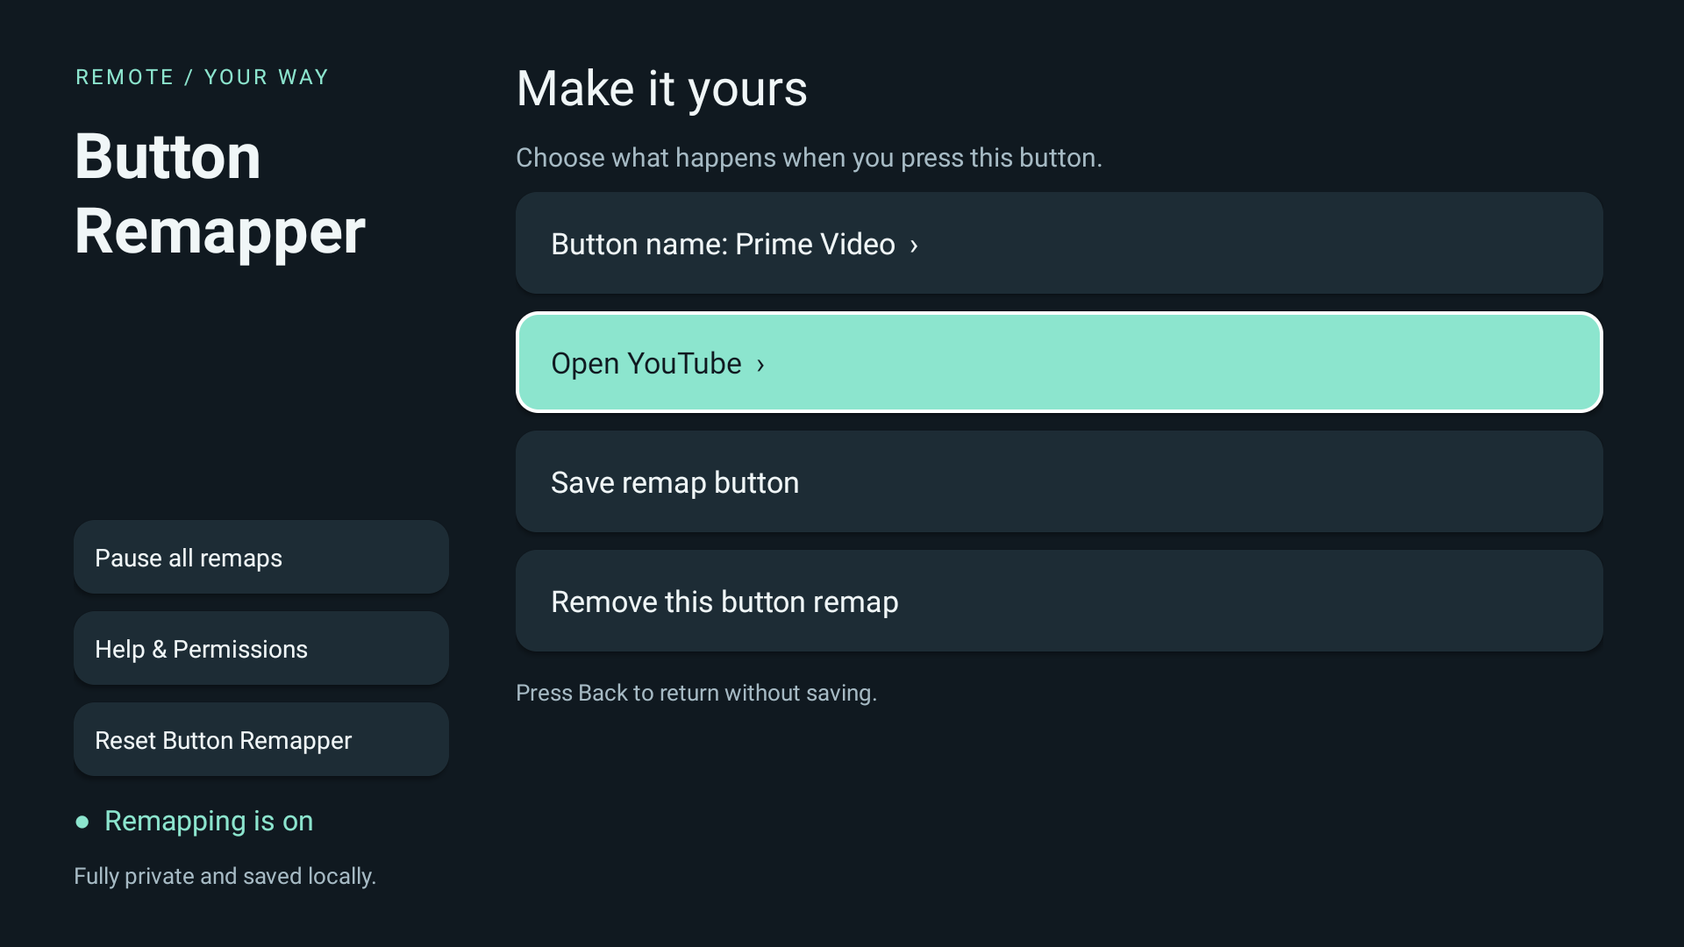
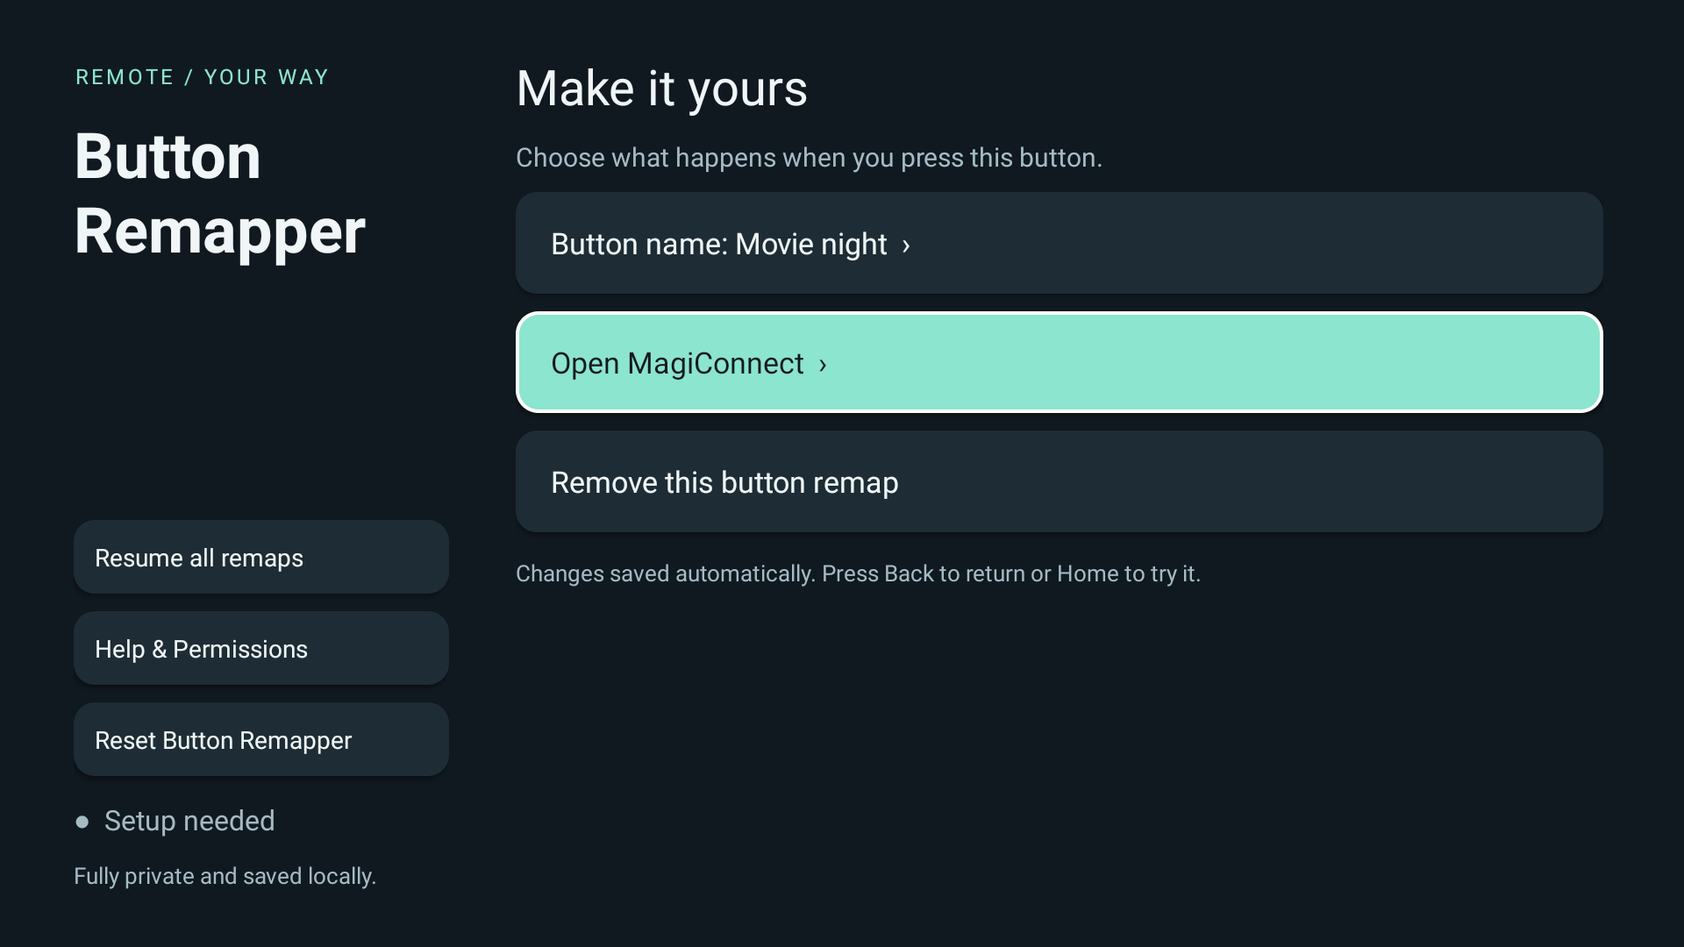
Save button remap changes automatically

diff --git a/tests/device/AutosaveTests.java b/tests/device/AutosaveTests.java
@@ -1,0 +1,189 @@
+package dev.antonio.tvremap;
+
+import android.app.AlertDialog;
+import android.app.Instrumentation;
+import android.content.Intent;
+import android.content.pm.ResolveInfo;
+import android.graphics.Bitmap;
+import android.os.Bundle;
+import android.os.SystemClock;
+import android.view.KeyEvent;
+import android.view.accessibility.AccessibilityNodeInfo;
+import java.io.File;
+import java.io.FileOutputStream;
+import java.lang.reflect.Field;
+import java.lang.reflect.Method;
+
+/** Actual framework UI clicks with isolated preferences; no external test library. */
+final class AutosaveTests {
+    private final Instrumentation test;
+    private int checks;
+    private MainActivity activity;
+    private MappingStore store;
+
+    AutosaveTests(Instrumentation test) { this.test = test; }
+
+    int run() throws Exception {
+        store = new MappingStore(test.getTargetContext(), "test-autosave");
+        check(store.reset() && store.consent() && store.setEnabled(false), "prepare isolated fixture");
+        activity = (MainActivity) test.startActivitySync(new Intent(test.getTargetContext(), MainActivity.class)
+                .addFlags(Intent.FLAG_ACTIVITY_NEW_TASK | Intent.FLAG_ACTIVITY_CLEAR_TASK));
+        test.runOnMainSync(() -> {
+            try {
+                Field dialog = MainActivity.class.getDeclaredField("disclosureDialog");
+                dialog.setAccessible(true);
+                AlertDialog initial = (AlertDialog) dialog.get(activity);
+                if (initial != null) initial.dismiss();
+                Field field = MainActivity.class.getDeclaredField("store");
+                field.setAccessible(true);
+                field.set(activity, store);
+            } catch (ReflectiveOperationException error) { throw new AssertionError(error); }
+        });
+        try {
+            editor(new Mapping(183, 123, "Test button", "", ""));
+            await("Choose an action  ›");
+            check(node("Save remap button") == null, "no manual save control");
+            check(saved() == null, "unconfigured button not persisted");
+            click("Choose an action  ›");
+            click("Open an app");
+            await("Open which app?");
+            back();
+            await("Choose an action  ›");
+            check(saved() == null, "cancel app picker does not save incomplete action");
+            click("Choose an action  ›");
+            click("Do nothing");
+            await("Do nothing  ›");
+            check(saved() != null && saved().action.equals("none"), "action saved immediately");
+            check(node("Remove this button remap") != null, "saved button can be removed immediately");
+            check(!store.enabled(), "action keeps pause state");
+
+            click("Button name: Test button  ›");
+            AccessibilityNodeInfo input = editable(test.getUiAutomation().getRootInActiveWindow());
+            check(input != null, "rename input available");
+            Bundle args = new Bundle();
+            args.putCharSequence(AccessibilityNodeInfo.ACTION_ARGUMENT_SET_TEXT_CHARSEQUENCE, "Movie night");
+            check(input.performAction(AccessibilityNodeInfo.ACTION_SET_TEXT, args), "enter new name");
+            click("Done");
+            await("Button name: Movie night  ›");
+            check(saved().name.equals("Movie night"), "confirmed name saved immediately");
+
+            click("Do nothing  ›");
+            click("Open an app");
+            await("Open which app?");
+            back();
+            await("Do nothing  ›");
+            check(saved().action.equals("none"), "cancel changed app picker preserves existing action");
+            click("Do nothing  ›");
+            await("What should this button do?");
+            back();
+            await("Do nothing  ›");
+            check(saved().action.equals("none"), "cancel action picker preserves existing action");
+
+            click("Do nothing  ›");
+            click("Open an app");
+            await("Open which app?");
+            // Choose a launchable app actually present in the visible list on this TV.
+            String target = null;
+            for (ResolveInfo info : activity.getPackageManager().queryIntentActivities(
+                    new Intent(Intent.ACTION_MAIN).addCategory(Intent.CATEGORY_LEANBACK_LAUNCHER), 0)) {
+                String label = info.loadLabel(activity.getPackageManager()).toString();
+                if (!info.activityInfo.packageName.equals(activity.getPackageName()) && node(label) != null) {
+                    target = info.activityInfo.packageName;
+                    click(label);
+                    break;
+                }
+            }
+            check(target != null, "select an installed app from picker");
+            await("Button name: Movie night  ›");
+            check(saved().action.equals("app") && saved().target.startsWith(target + "|"), "app target saved immediately");
+            check(saved().name.equals("Movie night"), "changing action keeps name");
+            check(node("Save remap button") == null, "no save button after configuration");
+            screenshot("autosave-editor.png");
+            click("Help & Permissions");
+            await("Privacy policy");
+            screenshot("autosave-help.png");
+            back();
+            await("Button name: Movie night  ›");
+            back();
+            await("Your button remaps");
+            check(saved().name.equals("Movie night") && saved().action.equals("app"), "Back keeps saved changes");
+
+            // A name alone is still a draft, and leaving it creates no broken remap.
+            editor(new Mapping(184, 0, "Unfinished button", "", ""));
+            await("Choose an action  ›");
+            back();
+            await("Your button remaps");
+            check(store.find(184, 0) == null && store.all().size() == 1, "cancel unfinished button preserves saved remaps");
+            return checks;
+        } finally {
+            test.runOnMainSync(activity::finish);
+        }
+    }
+
+    private Mapping saved() { return store.find(183, 123); }
+
+    private void editor(Mapping mapping) {
+        test.runOnMainSync(() -> {
+            try {
+                Method method = MainActivity.class.getDeclaredMethod("showEditor", Mapping.class);
+                method.setAccessible(true);
+                method.invoke(activity, mapping);
+            } catch (ReflectiveOperationException error) { throw new AssertionError(error); }
+        });
+        test.waitForIdleSync();
+    }
+
+    private AccessibilityNodeInfo node(String label) {
+        AccessibilityNodeInfo root = test.getUiAutomation().getRootInActiveWindow();
+        if (root == null) return null;
+        for (AccessibilityNodeInfo found : root.findAccessibilityNodeInfosByText(label)) {
+            if (label.equalsIgnoreCase(found.getText() == null ? "" : found.getText().toString())
+                    && found.isVisibleToUser()) return found;
+        }
+        return null;
+    }
+
+    private AccessibilityNodeInfo await(String label) {
+        for (int attempt = 0; attempt < 50; attempt++) {
+            AccessibilityNodeInfo found = node(label);
+            if (found != null) return found;
+            SystemClock.sleep(100);
+        }
+        throw new AssertionError("UI not found: " + label);
+    }
+
+    private void click(String label) {
+        AccessibilityNodeInfo found = await(label);
+        while (found != null && !found.isClickable()) found = found.getParent();
+        check(found != null && found.performAction(AccessibilityNodeInfo.ACTION_CLICK), "click " + label);
+        test.waitForIdleSync();
+    }
+
+    private AccessibilityNodeInfo editable(AccessibilityNodeInfo root) {
+        if (root == null || root.isEditable()) return root;
+        for (int i = 0; i < root.getChildCount(); i++) {
+            AccessibilityNodeInfo found = editable(root.getChild(i));
+            if (found != null) return found;
+        }
+        return null;
+    }
+
+    private void back() {
+        test.sendKeyDownUpSync(KeyEvent.KEYCODE_BACK);
+        test.waitForIdleSync();
+    }
+
+    private void screenshot(String name) throws Exception {
+        test.getUiAutomation().waitForIdle(300, 5000);
+        Bitmap bitmap = test.getUiAutomation().takeScreenshot();
+        check(bitmap != null, "capture " + name);
+        try (FileOutputStream output = new FileOutputStream(new File(test.getTargetContext().getExternalFilesDir(null), name))) {
+            check(bitmap.compress(Bitmap.CompressFormat.PNG, 100, output), "save " + name);
+        }
+    }
+
+    private void check(boolean value, String message) {
+        checks++;
+        if (!value) throw new AssertionError(message);
+    }
+}

diff --git a/app/src/dev/antonio/tvremap/MainActivity.java b/app/src/dev/antonio/tvremap/MainActivity.java
@@ -176,7 +176,7 @@ public final class MainActivity extends Activity {
         if (!store.all().isEmpty()) {
             pauseButton = sideButton("side:pause", "", () -> {
                 if (!store.setEnabled(!store.enabled())) Actions.message(this, "Could not save. Try again.");
-                // Update in place: retain focus, scroll position, and any unsaved edit.
+                // Update in place: retain focus, scroll position, and the current editor.
                 updateStatus();
             });
             rail.addView(pauseButton);
@@ -310,20 +310,29 @@ public final class MainActivity extends Activity {
         Button name = button("Button name: " + mapping.name + "  ›", () -> rename(mapping)); content.addView(name);
         Button choose = button(mapping.action.isEmpty() ? "Choose an action  ›" : Actions.label(mapping) + "  ›", () -> chooseAction(mapping));
         content.addView(choose); choose.requestFocus();
-        if (Actions.supported(mapping.action)) {
-            content.addView(button("Save remap button", () -> {
-                if (store.save(mapping)) { showHome(); Actions.message(this, "Remap saved. Press Home to try it."); }
-                else Actions.message(this, "Could not save. Try again.");
-            }));
-        }
         if (store.find(mapping.keyCode, mapping.scanCode) != null) content.addView(button("Remove this button remap", () -> new AlertDialog.Builder(this)
             .setTitle("Remove " + mapping.name + "?").setMessage("This button will return to its original behavior.")
             .setPositiveButton("Remove", (d, w) -> {
                 if (store.remove(mapping)) showHome(); else Actions.message(this, "Could not remove. Try again.");
             }).show()));
-        content.addView(text("Press Back to return without saving.", 13, MUTED));
+        content.addView(text(Actions.supported(mapping.action)
+                ? "Changes saved automatically. Press Back to return or Home to try it."
+                : "Choose an action to save this remap. Press Back to cancel.", 13, MUTED));
         restoreSidebarFocus(previousFocus);
         updateBackNavigation();
+    }
+
+    private void applyChange(Mapping mapping) {
+        // A new button has no remap until an action (and, for app launches, a
+        // target) has been chosen. Renaming an unfinished button stays a draft.
+        if (Actions.supported(mapping.action) && !store.save(mapping)) {
+            new AlertDialog.Builder(this).setTitle("Could not save change")
+                .setMessage("This change could not be saved. Try saving it again before leaving?")
+                .setNegativeButton("Cancel", null)
+                .setPositiveButton("Retry", (d, w) -> applyChange(mapping)).show();
+            return;
+        }
+        showEditor(mapping);
     }
 
     private void rename(Mapping mapping) {
@@ -331,7 +340,7 @@ public final class MainActivity extends Activity {
         new AlertDialog.Builder(this).setTitle("Button name").setView(input)
             .setPositiveButton("Done", (d, w) -> {
                 String name = input.getText().toString().trim();
-                showEditor(new Mapping(mapping.keyCode, mapping.scanCode, name.isEmpty() ? mapping.name : name, mapping.action, mapping.target));
+                applyChange(new Mapping(mapping.keyCode, mapping.scanCode, name.isEmpty() ? mapping.name : name, mapping.action, mapping.target));
             }).show();
     }
 
@@ -347,7 +356,7 @@ public final class MainActivity extends Activity {
             .setItems(labels.toArray(new String[0]), (d, which) -> {
                 String action = ids.get(which);
                 if (action.equals("app")) chooseApp(mapping);
-                else showEditor(new Mapping(mapping.keyCode, mapping.scanCode, mapping.name, action, ""));
+                else applyChange(new Mapping(mapping.keyCode, mapping.scanCode, mapping.name, action, ""));
             }).show();
     }
 
@@ -367,13 +376,13 @@ public final class MainActivity extends Activity {
         if (labels.length == 0) { Actions.message(this, "No launchable apps found on this TV."); return; }
         new AlertDialog.Builder(this).setTitle("Open which app?").setItems(labels, (d, which) -> {
             String pkg = packages.get(which);
-            showEditor(new Mapping(mapping.keyCode, mapping.scanCode, mapping.name, "app", pkg + "|" + apps.get(pkg)));
+            applyChange(new Mapping(mapping.keyCode, mapping.scanCode, mapping.name, "app", pkg + "|" + apps.get(pkg)));
         }).show();
     }
 
     private void help() {
         new AlertDialog.Builder(this).setTitle("Help & Permissions")
-            .setMessage("Remote button permission lets Button Remapper detect button presses while you use other apps. It does not allow anyone to connect to your TV or read your screen.\n\nSome TVs reserve certain buttons. If a button cannot be detected, try another one or turn off other button-remapping apps.\n\nPress Back to close this screen or leave an edit without saving.")
+            .setMessage("Remote button permission lets Button Remapper detect button presses while you use other apps. It does not allow anyone to connect to your TV or read your screen.\n\nSome TVs reserve certain buttons. If a button cannot be detected, try another one or turn off other button-remapping apps.\n\nAction and app choices are saved automatically. Name changes are saved when you select Done. Press Back to close a dialog or return; canceling a choice keeps your previous remap.")
             .setNeutralButton("Privacy policy", (d, w) -> privacy())
             .setPositiveButton("Remote button permission", (d, w) -> disclosure()).show();
     }

diff --git a/tests/device/DeviceTests.java b/tests/device/DeviceTests.java
@@ -19,7 +19,26 @@ public final class DeviceTests extends Instrumentation {
         Bundle result = new Bundle();
         try {
             MappingStore store = new MappingStore(getTargetContext(), "test-remaps");
-            if (phase.equals("disclosure")) {
+            if (phase.equals("screenshots")) {
+                StringBuilder images = new StringBuilder();
+                for (String name : new String[]{"autosave-editor.png", "autosave-help.png"}) {
+                    java.io.File file = new java.io.File(getTargetContext().getExternalFilesDir(null), name);
+                    images.append(name).append(':').append(android.util.Base64.encodeToString(
+                            java.nio.file.Files.readAllBytes(file.toPath()), android.util.Base64.NO_WRAP)).append('\n');
+                }
+                result.putString("stream", images.toString());
+                finish(-1, result);
+                return;
+            } else if (phase.equals("autosave")) {
+                checks += new AutosaveTests(this).run();
+            } else if (phase.equals("autosave-verify")) {
+                MappingStore saved = new MappingStore(getTargetContext(), "test-autosave");
+                Mapping mapping = saved.find(183, 123);
+                check(mapping != null && mapping.name.equals("Movie night") && mapping.action.equals("app")
+                        && !mapping.target.isEmpty(), "automatic changes survive process restart");
+                check(!saved.enabled(), "autosave preserves pause state");
+                check(saved.reset(), "clean autosave fixture");
+            } else if (phase.equals("disclosure")) {
                 testDisclosure();
             } else if (phase.equals("names")) {
                 check(ButtonNames.forKey(KeyEvent.KEYCODE_MEDIA_PLAY).equals("Play"), "standard button label");

diff --git a/docs/development.md b/docs/development.md
@@ -35,6 +35,10 @@ adb shell am instrument -w -e phase names \
   dev.antonio.tvremap.tests/dev.antonio.tvremap.DeviceTests
 adb shell am instrument -w -e phase disclosure \
   dev.antonio.tvremap.tests/dev.antonio.tvremap.DeviceTests
+adb shell am instrument -w -e phase autosave \
+  dev.antonio.tvremap.tests/dev.antonio.tvremap.DeviceTests
+adb shell am instrument -w -e phase autosave-verify \
+  dev.antonio.tvremap.tests/dev.antonio.tvremap.DeviceTests
 adb uninstall dev.antonio.tvremap.tests
 ```
 
@@ -46,10 +50,14 @@ Manual acceptance on each TV:
 - Hold the button: the selected app should open once.
 - Close/reopen the app and restart the TV; check remaps without opening Button Remapper first.
 - Pause/resume, remove one remap, cancel reset, then confirm reset and verify original behavior.
-- Verify that picture settings opens and that Back dismisses every dialog and discards unsaved edits.
+- Verify that picture settings opens and that Back cancels open choices and keeps changes already saved automatically.
 - Check Back/Home/navigation, missing target apps, and another active key-filtering service.
 
 ## Persistence and device limitations
+
+The editor saves each completed action/app choice immediately and saves a name when **Done** is selected. There is no separate Save button. Opening or canceling a picker does not change the stored remap; a new button without an action remains a draft. Back returns without undoing completed changes. If a save fails, the app offers Retry/Cancel instead of claiming success. The autosave instrumentation uses `test-autosave` preferences, actual framework UI clicks, and a separate process to check persistence. It also writes editor/help screenshots to the app's external files directory for documentation updates; this requires no storage permission. Framework UI inspection belongs only to the test harness and adds no screen-access capability to the app's service.
+
+Version 1.0.2 validation: Docker builds, mapping checks, and bundle validation passed. The TV passed 35 autosave UI checks, 3 autosave restart checks, and all 103 existing consent/persistence/key checks. Editor/help screenshots were refreshed from isolated test data. The test-only `screenshots` phase exports these PNGs as base64 in instrumentation output on TVs that block ADB reads of `Android/data`. After instrumentation, the already-enabled service was reconnected through TV settings and the live capture prompt opened. Synthetic ADB keys were intercepted or ignored by the TV; capture from a physical remote remains a manual check. The existing user remap was preserved.
 
 Version 1.0.1 requires renewed consent to the two-button disclosure. Legacy consent does not enable remapping; saved remaps and pause state are preserved. Only activating **I agree & open settings** saves the new consent version, before opening Android settings. **No thanks**, Back, Home, and lifecycle events never save consent. The disclosure has no timer and initially focuses **No thanks**. The `disclosure` instrumentation phase uses isolated `test-disclosure` preferences and intercepts settings launches to check consent ordering without changing the user's permission or remaps.
 
@@ -73,7 +81,7 @@ Some manufacturers intercept branded buttons before accessibility services; such
 
 The source does not contain TV model IDs, manufacturer-specific key-code tables, device addresses, or fixed installed-app choices. Setup tries Android's TV accessibility route, the standard accessibility action, and general settings. Settings paths and available actions depend on the device. Picture settings and screensaver actions are offered only when a suitable system activity is exposed. Screensaver support additionally requires the older Android behavior described above; resolving an activity cannot guarantee every vendor implementation works.
 
-Validation has been performed on one physical TV only. Other manufacturers, remotes, Android versions, settings layouts, and service restart behavior remain untested. Capability checks and graceful errors improve portability; they do not establish universal compatibility. The remote's Back button dismisses dialogs and leaves unsaved edits; Android 13+ uses `OnBackInvokedCallback` while older TVs handle remote Back key events. No deprecated Back callback is overridden.
+Validation has been performed on one physical TV only. Other manufacturers, remotes, Android versions, settings layouts, and service restart behavior remain untested. Capability checks and graceful errors improve portability; they do not establish universal compatibility. The remote's Back button dismisses dialogs and returns from the editor without undoing saved changes; Android 13+ uses `OnBackInvokedCallback` while older TVs handle remote Back key events. No deprecated Back callback is overridden.
 
 ## Toolchain
 

diff --git a/README.md b/README.md
@@ -16,14 +16,14 @@ This is a vibe-coded app.
 1. Open **Button Remapper**, read the accessibility disclosure, and choose **I agree & open settings** or **No thanks**. Declining or pressing Back/Home does not grant consent. You can return to **Remote button permission** later.
 2. In your TV’s Accessibility settings, find **Button Remapper** under **Services** or **Downloaded apps** and enable it. The exact menu varies by TV.
 3. Return to the app, choose **Add a button**, and press the remote button you want to change.
-4. Choose an action, then select **Save remap button**. You can also give the button a name you recognize.
+4. Choose an action (and an app if needed). Your choice saves automatically. You can also rename the button; select **Done** to save its name.
 5. Press **Home** and try it. Remaps pause while Button Remapper is open so you can navigate and edit.
 
 | Choose an action | Edit your remap |
 | --- | --- |
-| ![Action picker showing app, screensaver, picture settings, and do nothing](store/screenshots/en-US/03-choose-action.png) | ![Remap editor with button name, action, save, and remove controls](store/screenshots/en-US/02-edit-remap.png) |
+| ![Action picker showing app, screensaver, picture settings, and do nothing](store/screenshots/en-US/03-choose-action.png) | ![Remap editor with button name, action, and remove controls](store/screenshots/en-US/02-edit-remap.png) |
 
-Select a saved remap to change or remove it. **Pause all remaps** keeps your choices for later. **Reset Button Remapper** deletes the app’s saved settings and disables its accessibility service; your TV settings and installed apps stay as they are. Press **Back** to close a dialog or leave an edit without saving.
+Select a saved remap to change or remove it. **Pause all remaps** keeps your choices for later. **Reset Button Remapper** deletes the app’s saved settings and disables its accessibility service; your TV settings and installed apps stay as they are. Changes save as you make them. Press **Back** to return, or to cancel an open choice without changing the saved remap.
 
 ## Compatibility and privacy
 

diff --git a/store/README.md b/store/README.md
@@ -40,7 +40,7 @@ docker run --rm --platform linux/amd64 --network none \
 
 Retake screenshots whenever the visible app changes. Capture stable screens after transitions; keep notifications and personal data out. Use TV screenshot fields, not phone fields. A promotional store video is optional; the Accessibility API review video is a separate remaining task.
 
-## Accessibility disclosure resubmission (1.0.1 / version code 4)
+## Accessibility disclosure resubmission (1.0.2 / version code 5)
 
 Upload a bundle signed with the existing Play upload key. `build/button-remapper-unsigned.aab` is unsigned. The new disclosure provides **I agree & open settings** and **No thanks**, defaults focus to decline, and saves consent only on explicit acceptance. Existing users are asked again without deleting their remaps.
 
